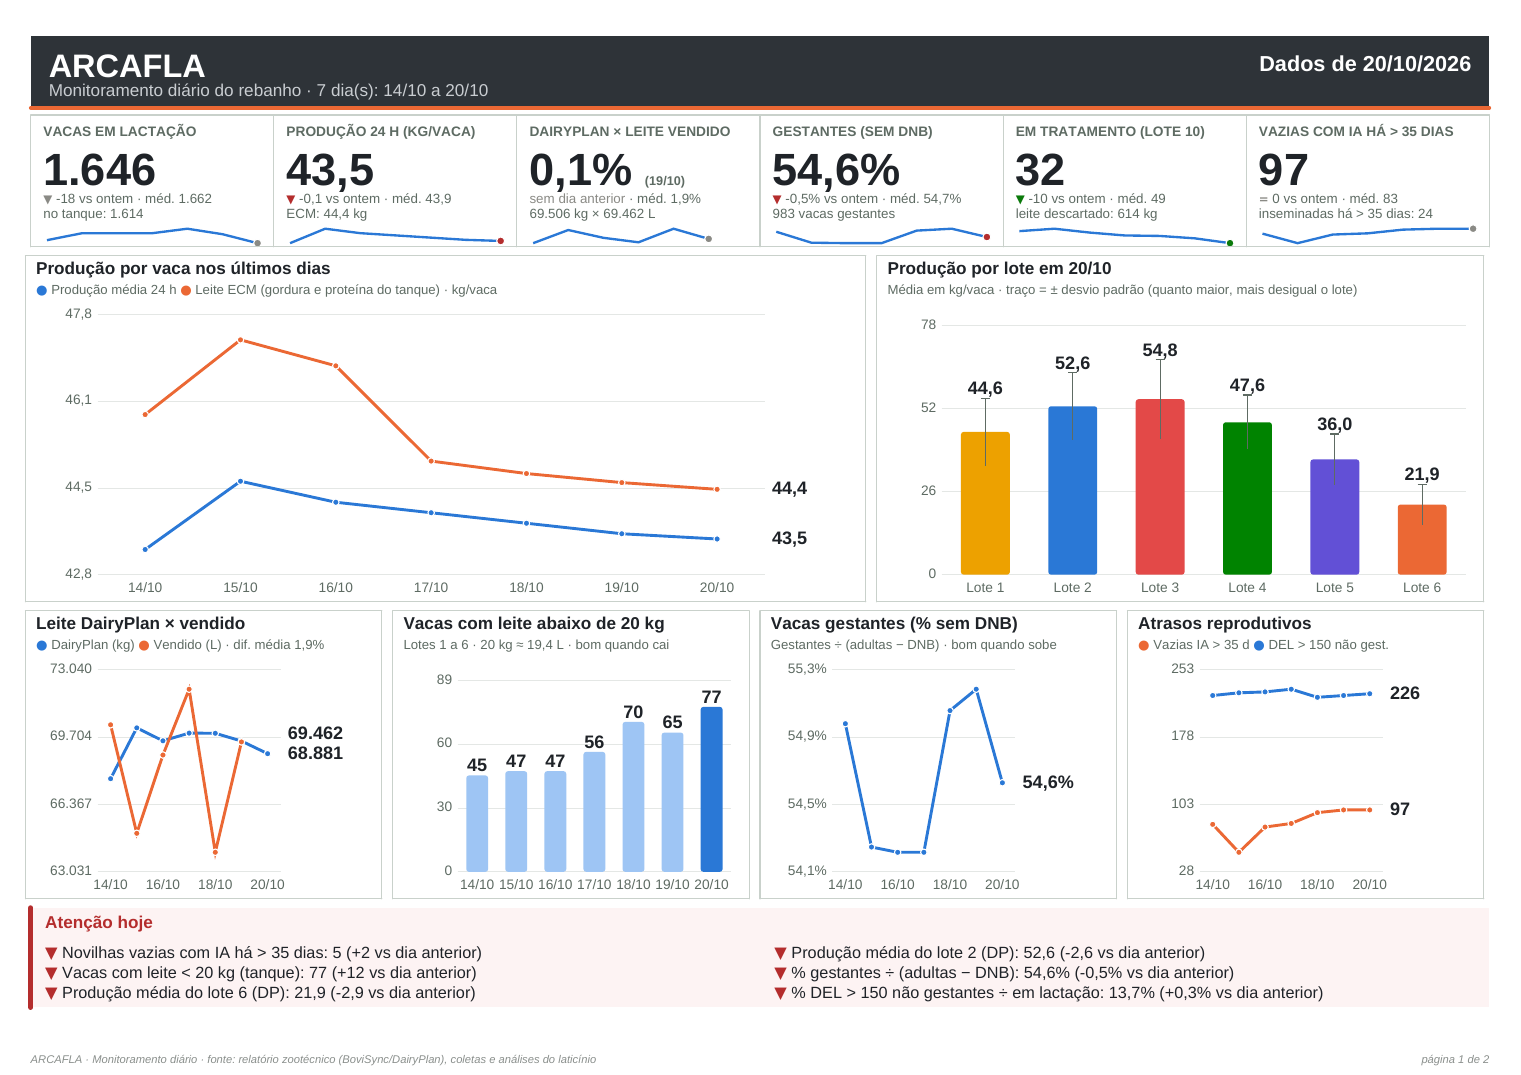
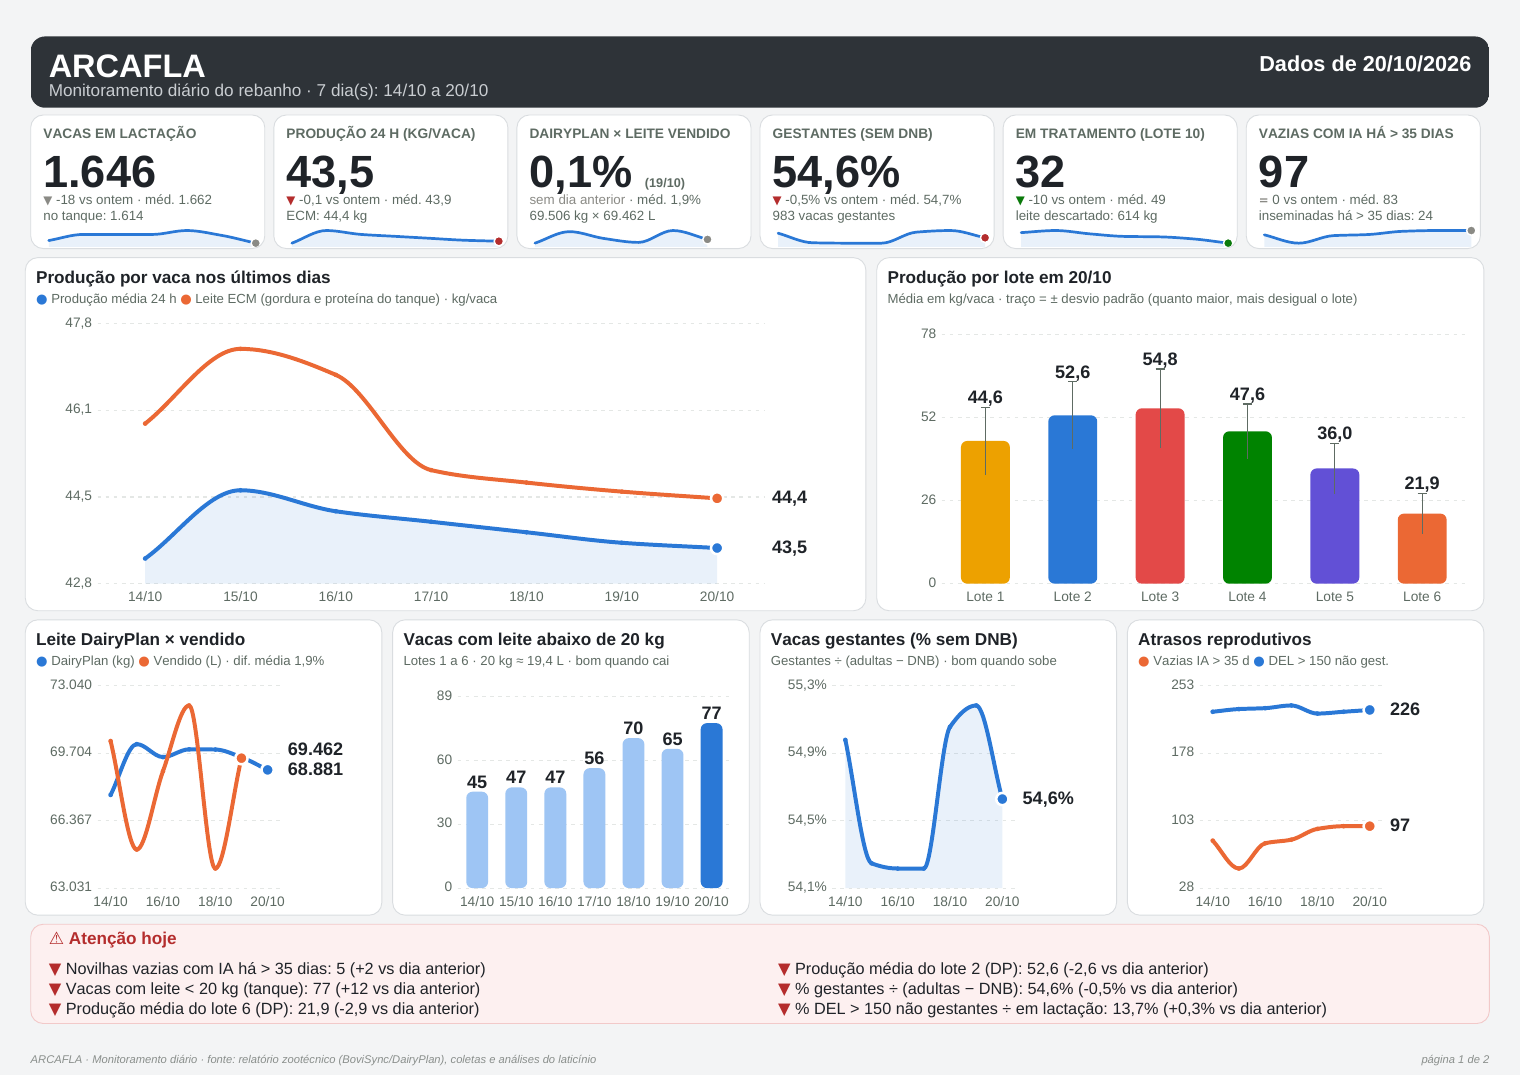
PDF ARCAFLA moderno: cantos arredondados, fundo claro com cartões, linhas suaves fiéis aos dados, grade tracejada
Claude-Session: https://claude.ai/code/session_01E6SmznsG4fwjxZt5rHRDBH

diff --git a/scripts/monitor_pdf.py b/scripts/monitor_pdf.py
@@ -25,7 +25,7 @@ import sys
 from datetime import datetime
 
 from openpyxl import load_workbook
-from reportlab.graphics.shapes import Circle, Drawing, Line, PolyLine, Rect, String
+from reportlab.graphics.shapes import Circle, Drawing, Line, Path, PolyLine, Rect, String
 from reportlab.lib import colors
 from reportlab.lib.pagesizes import A4, landscape
 from reportlab.lib.styles import ParagraphStyle
@@ -53,6 +53,8 @@ COR_LOTE = {1: colors.HexColor("#EDA100"), 2: colors.HexColor("#2A78D6"), 3: col
             4: colors.HexColor("#008300"), 5: colors.HexColor("#6250D6"), 6: colors.HexColor("#EB6834")}
 GRADE = colors.HexColor("#E4E7E5")
 LINHA = colors.HexColor("#C9D1CB")
+BORDA = colors.HexColor("#DADDE0")
+FUNDO_PAG = colors.HexColor("#F3F4F5")
 ZEBRA = colors.HexColor("#F6F8F7")
 HOJE = colors.HexColor("#EAF2FB")
 MEDIA = colors.HexColor("#F1F4F7")
@@ -234,11 +236,32 @@ def grade_y(d, x0, y0, larg, alt, lo, hi, nf, ticks=3):
     for t in range(ticks + 1):
         v = lo + (hi - lo) * t / ticks
         y = y0 + alt * t / ticks
-        d.add(Line(x0, y, x0 + larg, y, strokeColor=GRADE, strokeWidth=0.5))
+        d.add(Line(x0, y, x0 + larg, y, strokeColor=GRADE, strokeWidth=0.6, strokeDashArray=[2, 2.5]))
         d.add(String(x0 - 3, y - 2, fmt(v, nf), fontName="Lib", fontSize=7.6, fillColor=TINTA2, textAnchor="end"))
 
 
-def grafico_linhas(series, w, h, nf, nf_rot=None, zero=False):
+def curva(pts, cor, area_y=None, largura=2.2):
+    """Linha suave que passa exatamente pelos pontos sem ultrapassá-los (interpolação monotônica de
+    Fritsch–Carlson): não cria picos nem vales que não existem nos dados. Com area_y, área clara até essa altura."""
+    p = Path(strokeColor=None if area_y is not None else cor, strokeWidth=largura,
+             fillColor=colors.Color(cor.red, cor.green, cor.blue, alpha=0.10) if area_y is not None else None,
+             strokeLineCap=1, strokeLineJoin=1)
+    n = len(pts)
+    dx = [pts[k + 1][0] - pts[k][0] for k in range(n - 1)]
+    dl = [(pts[k + 1][1] - pts[k][1]) / dx[k] for k in range(n - 1)]
+    m = [dl[0]] + [0 if dl[k - 1] * dl[k] <= 0 else 2 / (1 / dl[k - 1] + 1 / dl[k]) for k in range(1, n - 1)] + [dl[-1]]
+    p.moveTo(*pts[0])
+    for k in range(n - 1):
+        (x1, y1), (x2, y2), h = pts[k], pts[k + 1], dx[k]
+        p.curveTo(x1 + h / 3, y1 + m[k] * h / 3, x2 - h / 3, y2 - m[k + 1] * h / 3, x2, y2)
+    if area_y is not None:
+        p.lineTo(pts[-1][0], area_y)
+        p.lineTo(pts[0][0], area_y)
+        p.closePath()
+    return p
+
+
+def grafico_linhas(series, w, h, nf, nf_rot=None, zero=False, area=False):
     """series: [(nome, valores, cor)]. Rótulo direto no último ponto de cada série."""
     d = Drawing(w, h)
     x0, y0, larg, alt = 34, 14, w - 34 - 52, h - 22
@@ -247,13 +270,16 @@ def grafico_linhas(series, w, h, nf, nf_rot=None, zero=False):
     grade_y(d, x0, y0, larg, alt, lo, hi, nf)
     eixo_x(d, x0, y0, larg, ND, [x.strftime("%d/%m") for x in dias])
     rotulos = []
-    for nome, vs, cor in series:
+    for k, (nome, vs, cor) in enumerate(series):
         pts = [(x0 + larg * (i + 0.5) / ND, y0 + alt * (v - lo) / (hi - lo)) for i, v in enumerate(vs) if v is not None]
         if len(pts) >= 2:
-            d.add(PolyLine([c for p in pts for c in p], strokeColor=cor, strokeWidth=1.6))
-        for x, y in pts:
-            d.add(Circle(x, y, 1.8, fillColor=cor, strokeColor=colors.white, strokeWidth=0.6))
+            if k == 0 and area:  # área clara sob a série principal
+                d.add(curva(pts, cor, area_y=y0))
+            d.add(curva(pts, cor))
+        for x, y in pts[:-1]:
+            d.add(Circle(x, y, 1.3, fillColor=cor, strokeColor=None))
         if pts:
+            d.add(Circle(pts[-1][0], pts[-1][1], 3.4, fillColor=cor, strokeColor=colors.white, strokeWidth=1.4))
             rotulos.append([pts[-1][0], pts[-1][1], fmt([v for v in vs if v is not None][-1], nf_rot or nf)])
     # rótulos no fim das linhas sem sobreposição (afasta verticalmente os que ficam a < 8 pt)
     rotulos.sort(key=lambda r: r[1])
@@ -282,7 +308,7 @@ def grafico_barras(rotulos, vals, w, h, nf, cor=S1, erros=None, destaque_ult=Fal
         if destaque_ult and i < n - 1:
             c = colors.HexColor("#9EC5F4")
         hb = alt * (v - lo) / (hi - lo)
-        d.add(Rect(cx - bw / 2, y0, bw, hb, fillColor=c, strokeColor=None, rx=1.5, ry=1.5))
+        d.add(Rect(cx - bw / 2, y0, bw, hb, fillColor=c, strokeColor=None, rx=3.5, ry=3.5))
         topo_txt = y0 + hb + 2
         if erros and erros[i]:
             e = alt * erros[i] / (hi - lo)
@@ -322,7 +348,9 @@ def caixa(titulo, sub, desenho, w):
     t = Table([[Paragraph(titulo, st_gt)], [Paragraph(sub, st_gs)], [desenho]], colWidths=[w])
     t.setStyle(TableStyle([("LEFTPADDING", (0, 0), (-1, -1), 6), ("RIGHTPADDING", (0, 0), (-1, -1), 4),
                            ("TOPPADDING", (0, 0), (-1, -1), 1), ("BOTTOMPADDING", (0, 0), (-1, -1), 1),
-                           ("BOX", (0, 0), (-1, -1), 0.6, LINHA), ("BACKGROUND", (0, 0), (-1, -1), colors.white)]))
+                           ("TOPPADDING", (0, 0), (0, 0), 5),
+                           ("BOX", (0, 0), (-1, -1), 0.5, BORDA), ("BACKGROUND", (0, 0), (-1, -1), colors.white),
+                           ("ROUNDEDCORNERS", [7, 7, 7, 7])]))
     return t
 
 
@@ -338,9 +366,10 @@ def sparkline(vals, w, h, cor_ult):
         return d
     lo, hi = escala([v for _, v in pts], folga=0)
     n = max(len(vals) - 1, 1)
-    xy = [c for i, v in pts for c in (2 + (w - 6) * i / n, 2 + (h - 5) * (v - lo) / (hi - lo))]
-    d.add(PolyLine(xy, strokeColor=S1, strokeWidth=1.3))
-    d.add(Circle(xy[-2], xy[-1], 2.2, fillColor=cor_ult, strokeColor=colors.white, strokeWidth=0.6))
+    xy = [(3 + (w - 8) * i / n, 3 + (h - 6) * (v - lo) / (hi - lo)) for i, v in pts]
+    d.add(curva(xy, S1, area_y=1, largura=1.5))
+    d.add(curva(xy, S1, largura=1.5))
+    d.add(Circle(xy[-1][0], xy[-1][1], 2.6, fillColor=cor_ult, strokeColor=colors.white, strokeWidth=0.8))
     return d
 
 
@@ -392,11 +421,18 @@ cards = [
     cartao("Vazias com IA há > 35 dias", "Vazias com IA há > 35 dias",
            f'inseminadas há > 35 dias: {v_ult("Inseminadas (Bred) com IA há > 35 dias", "0")}', CW),
 ]
-painel = Table([cards], colWidths=[CW] * 6, rowHeights=[73])
-painel.setStyle(TableStyle([("BOX", (0, 0), (-1, -1), 0.6, LINHA), ("INNERGRID", (0, 0), (-1, -1), 0.6, LINHA),
-                            ("BACKGROUND", (0, 0), (-1, -1), colors.white), ("VALIGN", (0, 0), (-1, -1), "TOP"),
-                            ("LEFTPADDING", (0, 0), (-1, -1), 1), ("RIGHTPADDING", (0, 0), (-1, -1), 1),
-                            ("TOPPADDING", (0, 0), (-1, -1), 4), ("BOTTOMPADDING", (0, 0), (-1, -1), 0)]))
+def embrulha(conteudo, w, h):
+    t = Table([[conteudo]], colWidths=[w], rowHeights=[h])
+    t.setStyle(TableStyle([("BACKGROUND", (0, 0), (-1, -1), colors.white), ("BOX", (0, 0), (-1, -1), 0.5, BORDA),
+                           ("ROUNDEDCORNERS", [7, 7, 7, 7]), ("VALIGN", (0, 0), (-1, -1), "TOP"),
+                           ("LEFTPADDING", (0, 0), (-1, -1), 1), ("RIGHTPADDING", (0, 0), (-1, -1), 1),
+                           ("TOPPADDING", (0, 0), (-1, -1), 5), ("BOTTOMPADDING", (0, 0), (-1, -1), 0)]))
+    return t
+
+
+painel = Table([[embrulha(c, CW - 5, 74) for c in cards]], colWidths=[CW] * 6)
+painel.setStyle(TableStyle([("LEFTPADDING", (0, 0), (-1, -1), 0), ("RIGHTPADDING", (0, 0), (-1, -1), 5),
+                            ("TOPPADDING", (0, 0), (-1, -1), 0), ("BOTTOMPADDING", (0, 0), (-1, -1), 0)]))
 
 # ---------------------------------------------------------------- página 1: gráficos
 G1W, G2W = LARG * 0.58 - 3, LARG * 0.42 - 3
@@ -406,7 +442,7 @@ g_prod = caixa("Produção por vaca nos últimos dias",
                + " · kg/vaca",
                grafico_linhas([("prod", serie("Produção média nas últimas 24 h (DP)"), S1),
                                ("ecm", serie("Média de leite ECM (gordura e proteína do tanque)"), S2)],
-                              G1W - 10, GH1, "0.0"), G1W)
+                              G1W - 10, GH1, "0.0", area=True), G1W)
 lotes = [itens.get(f"Produção média do lote {lt} (DP)") for lt in range(1, 7)]
 v_lote = [num(it["vals"][-1]) if it else None for it in lotes]
 e_lote = [dp(it["vals"][-1]) if it else None for it in lotes]
@@ -431,7 +467,7 @@ g_20 = caixa("Vacas com leite abaixo de 20 kg",
              grafico_barras([x.strftime("%d/%m") for x in dias], m20, G3W - 10, GH2, "0", destaque_ult=True),
              G3W)
 g_gest = caixa("Vacas gestantes (% sem DNB)", "Gestantes ÷ (adultas − DNB) · bom quando sobe",
-               grafico_linhas([("gest", serie("% gestantes ÷ (adultas − DNB)"), S1)], G3W - 10, GH2, "0.0%"), G3W)
+               grafico_linhas([("gest", serie("% gestantes ÷ (adultas − DNB)"), S1)], G3W - 10, GH2, "0.0%", area=True), G3W)
 g_rep = caixa("Atrasos reprodutivos",
               legenda_series([("Vazias IA > 35 d", S2), ("DEL > 150 não gest.", S1)]),
               grafico_linhas([("vaz", serie("Vazias com IA há > 35 dias"), S2),
@@ -466,11 +502,12 @@ if at:  # duas colunas para ocupar menos altura
     col_at = [Paragraph("<br/>".join(at[:meio]), st_at), Paragraph("<br/>".join(at[meio:]), st_at)]
 else:
     col_at = [Paragraph("Nenhum indicador piorou em relação ao dia anterior.", st_at), ""]
-quadro_at = Table([[Paragraph("Atenção hoje", st_ath), ""], col_at],
+quadro_at = Table([[Paragraph('<font name="Sym">⚠</font> Atenção hoje', st_ath), ""], col_at],
                   colWidths=[LARG / 2, LARG / 2])
 quadro_at.setStyle(TableStyle([("SPAN", (0, 0), (-1, 0)), ("VALIGN", (0, 0), (-1, -1), "TOP"),
-                               ("BACKGROUND", (0, 0), (-1, -1), colors.HexColor("#FDF3F3")),
-                               ("LINEBEFORE", (0, 0), (0, -1), 3, RUIM), ("LEFTPADDING", (0, 0), (-1, -1), 8),
+                               ("BACKGROUND", (0, 0), (-1, -1), colors.HexColor("#FDF0F0")),
+                               ("BOX", (0, 0), (-1, -1), 0.5, colors.HexColor("#F2C9C9")),
+                               ("ROUNDEDCORNERS", [7, 7, 7, 7]), ("LEFTPADDING", (0, 0), (-1, -1), 10),
                                ("TOPPADDING", (0, 0), (-1, -1), 2), ("BOTTOMPADDING", (0, 0), (-1, -1), 3)]))
 
 linha1 = Table([[g_prod, g_lote]], colWidths=[G1W + 6, G2W + 6])
@@ -494,6 +531,7 @@ FSN = min(9.2, ALT - 0.6)  # números da tabela, maiores que os rótulos
 st_c = est("c", "Lib", FSN, TINTA, FSN + 0.2, 2)
 dados = [cabec]
 estilo = [
+    ("BACKGROUND", (0, 0), (-1, -1), colors.white), ("ROUNDEDCORNERS", [6, 6, 6, 6]),
     ("FONT", (0, 0), (-1, -1), "Lib", FS), ("TEXTCOLOR", (0, 0), (-1, -1), TINTA),
     ("FONT", (0, 0), (-1, 0), "LibB", FS), ("BACKGROUND", (0, 0), (-1, 0), colors.HexColor("#E6ECE8")),
     ("ALIGN", (2, 0), (-1, -1), "CENTER"), ("ALIGN", (CDIA0, 1), (-1, -1), "RIGHT"),
@@ -588,7 +626,7 @@ def cabecalho_p1():
                            ("RIGHTPADDING", (0, 0), (-1, -1), 10), ("TOPPADDING", (0, 0), (-1, 0), 5),
                            ("BOTTOMPADDING", (0, -1), (-1, -1), 5), ("TOPPADDING", (0, 1), (-1, 1), 0),
                            ("BOTTOMPADDING", (0, 0), (-1, 0), 0), ("VALIGN", (0, 0), (-1, -1), "MIDDLE"),
-                           ("LINEBELOW", (0, -1), (-1, -1), 2, S2)]))
+                           ("ROUNDEDCORNERS", [8, 8, 8, 8])]))
     return t
 
 
@@ -604,6 +642,8 @@ def cabecalho_p2():
 
 def rodape(c, d):
     c.saveState()
+    c.setFillColor(FUNDO_PAG)  # fundo cinza bem claro: os cartões brancos se destacam
+    c.rect(0, 0, PAG[0], PAG[1], stroke=0, fill=1)
     c.setFont("LibI", 6.2)
     c.setFillColor(TINTA3)
     c.drawString(MARG, 2.2 * MM, "ARCAFLA · Monitoramento diário · fonte: relatório zootécnico (BoviSync/DairyPlan), "

diff --git a/claude/notas_analise_ARKAFLA.md b/claude/notas_analise_ARKAFLA.md
@@ -383,3 +383,10 @@
   o nome do lote vai sempre escrito junto.
   - PDF: barras do gráfico "Produção por lote" e marca colorida nas linhas de lote da tabela.
   - Planilha: borda grossa colorida à esquerda das linhas "Produção média do lote N".
+- Visual moderno no PDF (21/10, pedido do usuário):
+  - Cantos arredondados em cabeçalho, cartões, quadros de gráfico, "Atenção hoje" e tabela.
+  - Fundo da página #F3F4F5 com cartões brancos separados.
+  - Linhas suaves com interpolação monotônica (Fritsch–Carlson), que não ultrapassa os valores reais.
+    A Catmull-Rom foi descartada porque criava vales falsos.
+  - Área clara sob a série principal (produção e % gestantes); ponto destacado só no último dia.
+  - Grade tracejada; barras com cantos arredondados.
